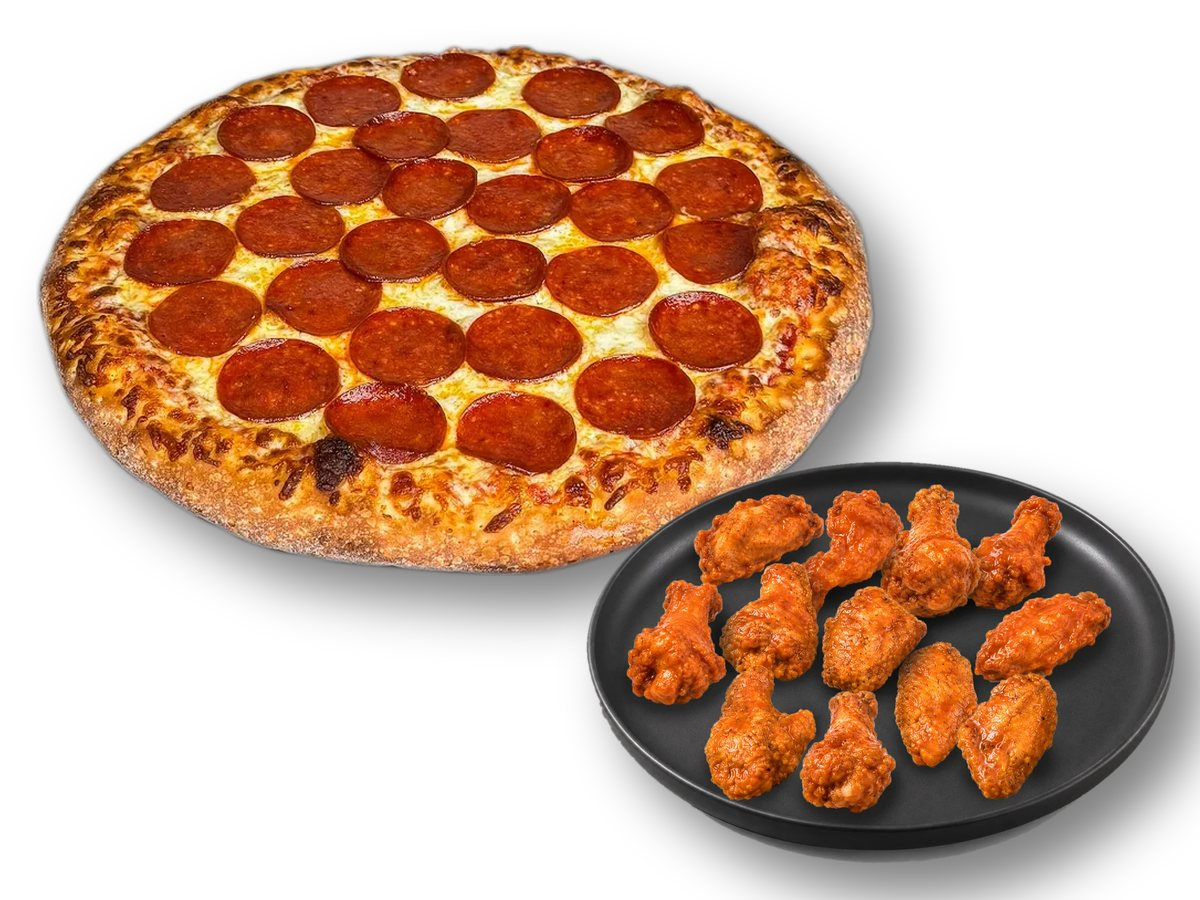
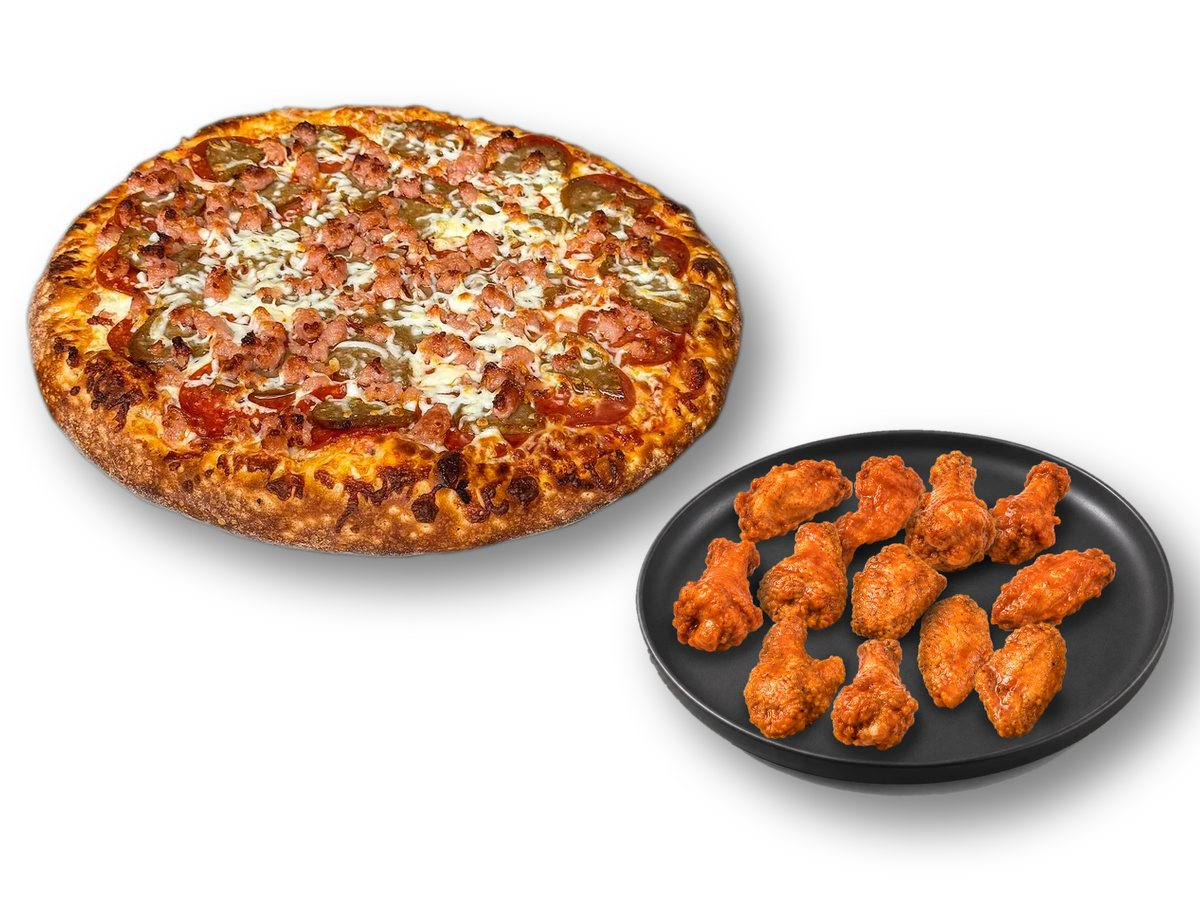
Combo images: veggie and meat lover pizzas, same-size wing plates, centred layouts, Take Care with garlic bread and staggered pops
Claude-Session: https://claude.ai/code/session_01GwuNKQ4EhJTqGbbawQ6M8A

diff --git a/scripts/combo-images.py b/scripts/combo-images.py
@@ -25,90 +25,102 @@ def place(canvas, im, x, y, k):
     canvas.alpha_composite(sh, (x - pad + round(7 * k), y - pad + round(8 * k)))
     canvas.alpha_composite(im, (x, y))
 
-def two_pizzas(back, front, width):
-    c = Image.new("RGBA", (W, H), (255, 255, 255, 255))
-    k = width / 200  # shadow scale: card pizzas are ~200px wide on screen
-    b, f = pizza(back, width), pizza(front, width)
-    # back pizza up and to the right, front pizza down and to the left, overlapping
-    bx = W - b.width - round(W * 0.04); by = round((H - b.height) * 0.18)
-    fx = round(W * 0.04); fy = H - f.height - round((H - f.height) * 0.16)
-    place(c, b, bx, by, k)
-    place(c, f, fx, fy, k)
+def compose(parts, shift_y=0):
+    # parts: [(image, x, y, shadow_k)] in any coordinates. The whole group is
+    # centred on the white canvas, so smaller pizzas sit closer to the middle
+    # and the gaps between the items stay the same in every combo.
+    # If the group is too big for the canvas (with a margin), it's built on a
+    # bigger canvas and shrunk to fit.
+    x0 = min(x for _, x, _, _ in parts); x1 = max(x + im.width for im, x, _, _ in parts)
+    y0 = min(y for _, _, y, _ in parts); y1 = max(y + im.height for im, _, y, _ in parts)
+    m = 24
+    s = max(1, (x1 - x0 + 2 * m) / W, (y1 - y0 + 2 * m) / H)
+    cw, ch = round(W * s), round(H * s)
+    c = Image.new("RGBA", (cw, ch), (255, 255, 255, 255))
+    ox = round((cw - (x1 - x0)) / 2) - x0; oy = round((ch - (y1 - y0)) / 2) - y0 + shift_y
+    for im, x, y, k in parts:
+        place(c, im, x + ox, y + oy, k)
+    if s > 1:
+        print(f"  (shrunk to {1 / s:.0%} to fit)")
+        c = c.resize((W, H), Image.LANCZOS)
     return c.convert("RGB")
 
-def plate(count, width):
+BACK, FRONT = "veggie-lover", "meat-lover"  # every combo comes with 3 toppings
+PLATE_W = 540     # wings plate: the same size in every combo
+OVER_X = 110      # how far the wings plate tucks under the pizza's right edge
+OVER_Y = 130      # and how far up it overlaps the pizza's bottom edge
+
+def two_pizzas(back, front, width):
+    b, f = pizza(back, width), pizza(front, width)
+    k = width / 200
+    # back pizza up and to the right, front pizza down and to the left, overlapping
+    fx = -round(width * 0.42); fy = round(b.height * 0.54)
+    return compose([(b, 0, 0, k), (f, fx, fy, k)])
+
+def plate(count, width=PLATE_W):
     # wings plate photo: the biggest public/images/wings/plate-<n>.webp with
     # n <= count (an exact match when there is one), else the smallest
     import glob, re
     plates = sorted(int(re.search(r"plate-(\d+)", f).group(1)) for f in glob.glob(f"{PUB}/wings/plate-*.webp"))
     pick = max([n for n in plates if n <= count], default=plates[0])
-    path = f"{PUB}/wings/plate-{pick}.webp"
-    im = Image.open(path).convert("RGBA")
+    im = Image.open(f"{PUB}/wings/plate-{pick}.webp").convert("RGBA")
     return im.resize((width, round(im.height * width / im.width)), Image.LANCZOS)
-
-def two_pizzas_wings(back, front, pizza_w, wings, plate_w):
-    c = Image.new("RGBA", (W, H), (255, 255, 255, 255))
-    k = pizza_w / 200
-    b, f, w = pizza(back, pizza_w), pizza(front, pizza_w), plate(wings, plate_w)
-    # pizzas further back (upper part), wings plate in front on the right
-    bx = W - b.width - round(W * 0.03); by = round(H * 0.03)
-    fx = round(W * 0.03); fy = round(H * 0.20)
-    wx = W - w.width - round(W * 0.02); wy = H - w.height - round(H * 0.03)
-    place(c, b, bx, by, k)
-    place(c, f, fx, fy, k)
-    place(c, w, wx, wy, k)
-    return c.convert("RGB")
-
-def pizza_wings(slug, pizza_w, wings, plate_w):
-    c = Image.new("RGBA", (W, H), (255, 255, 255, 255))
-    k = pizza_w / 200
-    p, w = pizza(slug, pizza_w), plate(wings, plate_w)
-    px_ = round(W * 0.03); py = round((H - p.height) * 0.12)
-    wx = W - w.width - round(W * 0.02); wy = H - w.height - round(H * 0.04)
-    place(c, p, px_, py, k)
-    place(c, w, wx, wy, k)
-    return c.convert("RGB")
 
 def side(path, width):
     im = Image.open(f"{PUB}/{path}").convert("RGBA")
     return im.resize((width, round(im.height * width / im.width)), Image.LANCZOS)
 
+def two_pizzas_front(back, front, pizza_w, item):
+    # 2 pizzas, plus one item (wings plate or garlic bread) in front on the right
+    b, f = pizza(back, pizza_w), pizza(front, pizza_w)
+    k = pizza_w / 200
+    fx = -round(pizza_w * 0.64); fy = round(b.height * 0.37)
+    ix = fx + f.width - OVER_X; iy = fy + f.height - OVER_Y
+    return [(b, 0, 0, k), (f, fx, fy, k), (item, ix, iy, k)]
+
+def two_pizzas_wings(back, front, pizza_w, wings):
+    return compose(two_pizzas_front(back, front, pizza_w, plate(wings)))
+
+def pizza_wings(slug, pizza_w, wings):
+    p, w = pizza(slug, pizza_w), plate(wings)
+    k = pizza_w / 200
+    return compose([(p, 0, 0, k), (w, p.width - OVER_X, p.height - OVER_Y, k)])
+
 CANS = ["can-pepsi", "can-canada-dry", "can-crush-orange", "can-coke"]
 
-def take_care(back, front, pizza_w, bread_w, can_h, can_gap):
-    # 2 pizzas at the back, garlic bread in front on the left, 4 pops in a row
-    # on the right. can_gap = pixels between cans (negative = overlap).
-    c = Image.new("RGBA", (W, H), (255, 255, 255, 255))
-    k = pizza_w / 200
-    b, f = pizza(back, pizza_w), pizza(front, pizza_w)
-    bread = side("sides/garlic-bread-plate.webp", bread_w)
+def take_care(back, front, pizza_w, bread_w, can_h, can_step_x, can_step_y):
+    # same layout as 2 Large + 20 Wings with the garlic bread in the wings'
+    # place, plus the 4 pops in the top left in a diagonal: the first can is
+    # lowest and in front, each next one steps right by can_step_x and up by
+    # can_step_y and sits behind the one before it.
+    parts = two_pizzas_front(back, front, pizza_w, side("sides/garlic-bread-plate.webp", bread_w))
     cans = [Image.open(f"{PUB}/drinks/{n}.webp").convert("RGBA") for n in CANS]
     cans = [im.resize((round(im.width * can_h / im.height), can_h), Image.LANCZOS) for im in cans]
-    bx = W - b.width - round(W * 0.03); by = round(H * 0.02)
-    fx = round(W * 0.03); fy = round(H * 0.12)
-    place(c, b, bx, by, k)
-    place(c, f, fx, fy, k)
-    row_w = sum(im.width for im in cans) + can_gap * (len(cans) - 1)
-    x = W - row_w - round(W * 0.03); y = H - can_h - round(H * 0.04)
+    f, fx, fy = parts[1][0], parts[1][1], parts[1][2]
+    # first can: its left side at the front pizza's left edge (+CAN_X), its
+    # bottom CAN_TUCK px down behind the front pizza's left side
+    x = fx + CAN_X; y = fy + round(f.height * 0.5) + CAN_TUCK - can_h
+    can_parts = []
     for im in cans:
-        place(c, im, x, y, k * 0.6)
-        x += im.width + can_gap
-    place(c, bread, round(W * 0.02), H - bread.height - round(H * 0.03), k)
-    return c.convert("RGB")
+        can_parts.append((im, x, y, pizza_w / 200 * 0.6))
+        x += can_step_x; y -= can_step_y
+    return compose(can_parts[::-1] + parts)  # back can drawn first
+
+CAN_X, CAN_TUCK = 10, -55
 
 def save(img, name):
     img.save(f"{OUT}/{name}.jpg", "JPEG", quality=84, optimize=True)
     print("saved", name)
 
 for name, width in [("2-medium", 700), ("2-large", 780), ("2-xl", 860)]:
-    save(two_pizzas("cheese", "pepperoni", width), name)
+    save(two_pizzas(BACK, FRONT, width), name)
 
-# 2 pizzas + wings (plate grows with the wing count)
-save(two_pizzas_wings("cheese", "pepperoni", 600, 16, 560), "2-medium-16-wings")
-save(two_pizzas_wings("cheese", "pepperoni", 650, 20, 600), "2-large-20-wings")
-save(two_pizzas_wings("cheese", "pepperoni", 700, 25, 640), "2-xl-25-wings")
+# 2 pizzas + wings (the plate is the same size in all of them)
+save(two_pizzas_wings(BACK, FRONT, 600, 16), "2-medium-16-wings")
+save(two_pizzas_wings(BACK, FRONT, 650, 20), "2-large-20-wings")
+save(two_pizzas_wings(BACK, FRONT, 700, 25), "2-xl-25-wings")
 # 1 pizza + wings
-save(pizza_wings("pepperoni", 760, 6, 540), "small-6-wings")
-save(pizza_wings("pepperoni", 840, 12, 590), "large-12-wings")
+save(pizza_wings(FRONT, 600, 6), "small-6-wings")
+save(pizza_wings(FRONT, 720, 12), "large-12-wings")
 # 2 large pizzas + garlic bread + 4 pops
-save(take_care("cheese", "pepperoni", 650, 560, 300, 6), "takecare")
+save(take_care(BACK, FRONT, 650, 580, 280, 105, 45), "takecare")
